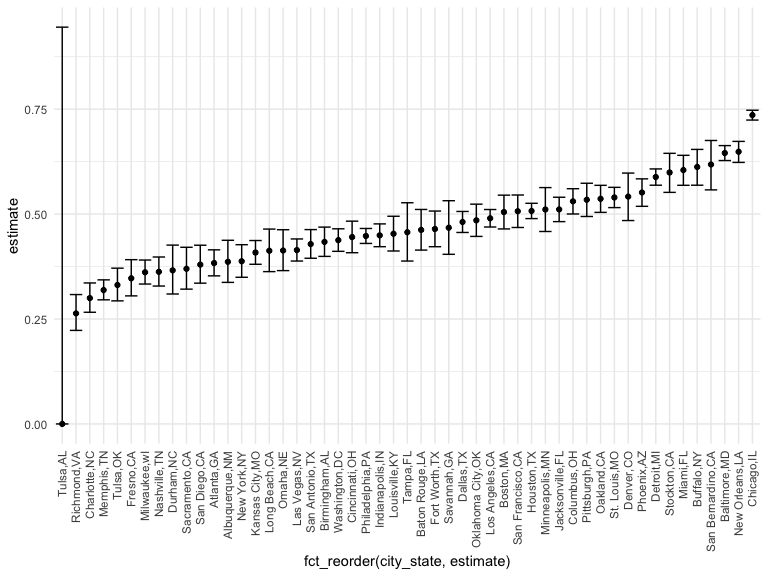
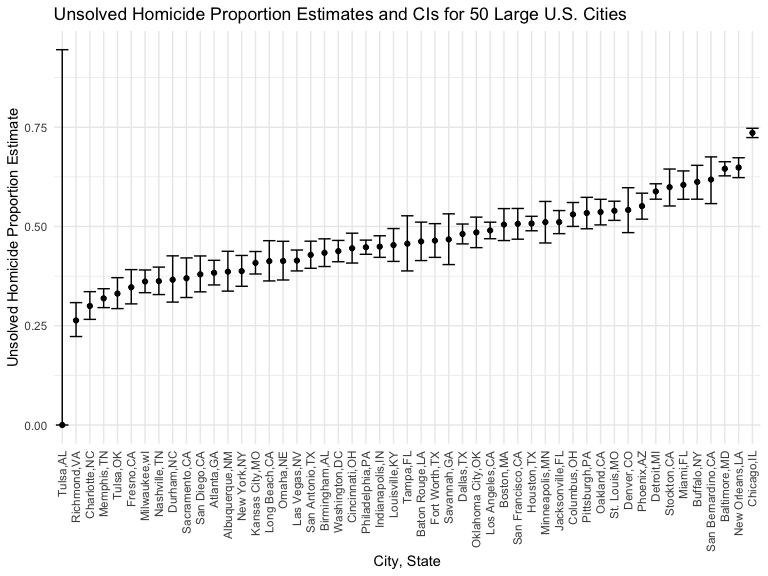
Major edits to problem 3 code...

diff --git a/p8105_hw5_yc4017.md b/p8105_hw5_yc4017.md
@@ -195,7 +195,10 @@ homicide_plot = homicide_prop %>%
   ggplot(aes(x = fct_reorder(city_state, estimate), y = estimate)) + 
   geom_point() +  
   geom_errorbar(aes(ymin = conf.low, ymax = conf.high)) +
-  theme(axis.text.x = element_text(angle = 90, vjust = 0.5, hjust = 1))
+  theme(axis.text.x = element_text(angle = 90, vjust = 0.5, hjust = 1)) +
+  labs(title = "Unsolved Homicide Proportion Estimates and CIs for 50 Large U.S. Cities",
+       x = "City, State",
+       y = "Unsolved Homicide Proportion Estimate")
 
 homicide_plot
 ```
@@ -204,21 +207,27 @@ homicide_plot
 
 ## Problem 3: Simulation
 
-We will run a simulation to explore power in one-sample t-test.
+In this problem, we run a simulation to explore the power in a
+one-sample t-test. We fix the sample size n = 30 and the error variance
+sigma = 5, and explore how changes in the effect size mu would affect
+the power of the t-test.
 
-First set design elements with n = 30 and sigma = 5.
-
-Then set mu = 0 and generate 5000 datasets from the normal distribution
-model.
+First, we will generate 5000 datasets from the normal distribution
+model. We will then use one-sample t-test and calculate a p-value by
+using `broom::tidy` to clean the output of the `t.test`. We combine
+output from each test using `bind_rows` to generate a tibble with the
+estimate and the p-value of each test.
 
 ``` r
-sim_data = function(n = 30, mu = 0, sigma = 5){
+sim_power = function(mu = 0, n = 30, sigma = 5) {
   
-    x = rnorm(n, mean = mu, sd = sigma)
+  sim_data = tibble(
+    x = rnorm(n, mean = mu, sd = sigma),
+  )
   
-  t_test = t.test(x, conf.int = 0.95) %>% broom::tidy() %>% select(estimate, p.value)
-  
-  t_test
+  t.test(sim_data) %>% 
+    broom::tidy() %>% 
+    select(estimate, p.value)
   
 }
 
@@ -226,54 +235,53 @@ output = vector("list", 5000)
 
 for (i in 1:5000) {
   
- output[[i]] = sim_data()
-    
+  output[[i]] = sim_power()
 }
 
-output %>% bind_rows()
+sim_results = bind_rows(output)
 ```
 
-    ## # A tibble: 5,000 × 2
-    ##    estimate p.value
-    ##       <dbl>   <dbl>
-    ##  1    0.412  0.629 
-    ##  2    0.664  0.368 
-    ##  3    0.551  0.534 
-    ##  4    0.567  0.487 
-    ##  5   -1.65   0.0599
-    ##  6    1.19   0.229 
-    ##  7    0.334  0.738 
-    ##  8   -1.19   0.209 
-    ##  9    0.122  0.887 
-    ## 10    0.684  0.472 
-    ## # … with 4,990 more rows
-
-Now wee want to repeat the above for mu = {1, 2, 3, 4, 5, 6}
+Alternatively, we could have used:
 
 ``` r
-sim_mu = function(set){
-  output = vector("list", 5000)
-  for (i in 1:5000) {
-    
-     output[[i]] = sim_data(mu = set)
-     
-  }
-  
-power = 
-    output %>% 
-    bind_rows() 
-  
-  power
-  
-}
+expand_grid(
+    means = 0,
+    iter = 1:5000
+  ) %>% 
+  mutate(
+    estimate_df = map(means, sim_power)
+  ) %>% 
+  unnest(estimate_df)
+```
 
-powertest =
-  tibble(
-    sample_mu = c(0, 1, 2, 3, 4, 5, 6),
-    reject = map(sample_mu, sim_mu)
-  ) %>%  
-  unnest(reject) %>% 
-  mutate(status = ifelse(p.value < 0.05, TRUE, FALSE))
+    ## # A tibble: 5,000 × 4
+    ##    means  iter estimate p.value
+    ##    <dbl> <int>    <dbl>   <dbl>
+    ##  1     0     1    0.520   0.549
+    ##  2     0     2    1.11    0.188
+    ##  3     0     3    1.01    0.220
+    ##  4     0     4   -0.835   0.309
+    ##  5     0     5   -0.892   0.365
+    ##  6     0     6    0.557   0.503
+    ##  7     0     7    1.04    0.238
+    ##  8     0     8    1.40    0.144
+    ##  9     0     9    1.15    0.180
+    ## 10     0    10   -0.500   0.634
+    ## # … with 4,990 more rows
+
+Next, we want to repeat the same process but for different effect size
+of mu = {1, 2, 3, 4, 5, 6}.
+
+``` r
+sim_results_df = 
+  expand_grid(
+    effect_size = c(1:6),
+    iter = 1:5000
+  ) %>% 
+  mutate(
+    estimate_df = map(effect_size, sim_power)
+  ) %>% 
+  unnest(estimate_df)
 ```
 
 Next we want to make a plot showing the proportion of times the null was
@@ -281,15 +289,18 @@ rejected, the power of the test, on the y-axis and the true value of mu
 on the x axis.
 
 ``` r
-power_plot = powertest %>% 
-  group_by(sample_mu) %>% 
-  summarize(power = sum(status)/5000) %>% 
-  ggplot(aes(x = sample_mu, y = power)) +
-  geom_point(aes(colour = sample_mu), size = 2, alpha = 0.5) +
-  geom_line(alpha = 0.3) +
-  labs(title = "The Power of one-sample t-test vs. true value of mu",
-       x = "True value of mu", 
+power_plot = sim_results_df %>% 
+  group_by(effect_size) %>% 
+  summarize(
+    reject = sum(p.value < 0.05, na.rm = TRUE)
+  ) %>% 
+  ggplot(aes(x = effect_size, y = reject)) +
+  geom_point(aes(colour = effect_size), size = 3, alpha = 0.5) +
+  geom_line() +
+   labs(title = "The power of one-sample t-test vs. true value of mu",
+       x = "True value of mu (effect size)", 
        y = "Power of the one-sample t-test")
+
 power_plot
 ```
 
@@ -303,71 +314,3 @@ axis and the true value of mu on the x axis.
 
 We want another plot showing the average estimate of mu only in samples
 for which null was rejected on the y axis.
-
-``` r
-all_estimates = 
-  powertest %>%
-  group_by(sample_mu) %>% 
-  summarize(all_samp_mean = mean(estimate))
-
-reject_estimates =
-  powertest %>%
-  group_by(sample_mu) %>% 
-  filter(status == TRUE) %>%
-  summarize(reject_samp_mean = mean(estimate))
-
-combined_df = 
-  full_join(all_estimates, reject_estimates, by = "sample_mu") %>%
-  pivot_longer(
-    all_samp_mean:reject_samp_mean, 
-    names_to = "samples",
-    values_to = "avg_estimates"
-  )
-
-all_plot = 
-  all_estimates %>%
-  ggplot(aes(x = sample_mu, y = all_samp_mean)) +
-  geom_point(alpha = 0.5) +
-  geom_line() +
-  labs(title = "All Sample",
-       x = "True value of μ",
-       y = "The average estimate of μ^")
-all_plot
-```
-
-<img src="p8105_hw5_yc4017_files/figure-gfm/unnamed-chunk-12-1.png" width="90%" />
-
-``` r
-reject_plot = 
-  reject_estimates %>%
-  ggplot(aes(x = sample_mu, y = reject_samp_mean)) +
-  geom_point(alpha = 0.5) +
-  geom_line() +
-  labs(title = "Rejected-Null Sample",
-       x = "True value of μ",
-       y = "The average estimate of μ^")
- reject_plot
-```
-
-<img src="p8105_hw5_yc4017_files/figure-gfm/unnamed-chunk-12-2.png" width="90%" />
-
-``` r
-combined_plot = 
-  combined_df %>%
-  ggplot(aes(x = sample_mu, y = avg_estimates, group = samples)) +
-  geom_point(aes(colour = samples), alpha = 0.5) +
-  geom_line(aes(colour = samples)) +
-  labs(title = "True Value of μ vs.Average Estimate of μ^ in All Sample and Rejected-Null Sample",
-         x = "True population mean (μ)",
-         y = "The average estimate of μ^")
-combined_plot
-```
-
-<img src="p8105_hw5_yc4017_files/figure-gfm/unnamed-chunk-12-3.png" width="90%" />
-
--   From the plot above, we can observe that the sample average of μ̂
-    across tests for which the null is rejected is approximately equal
-    to the true value of μ, when μ lies between 0 and 4.
--   It is evident that μ̂ \>μ in these cases.
--   When μ =\> 4, then we see that μ̂ approximates μ.
--   This is because as effect size increases, the power also increases.
